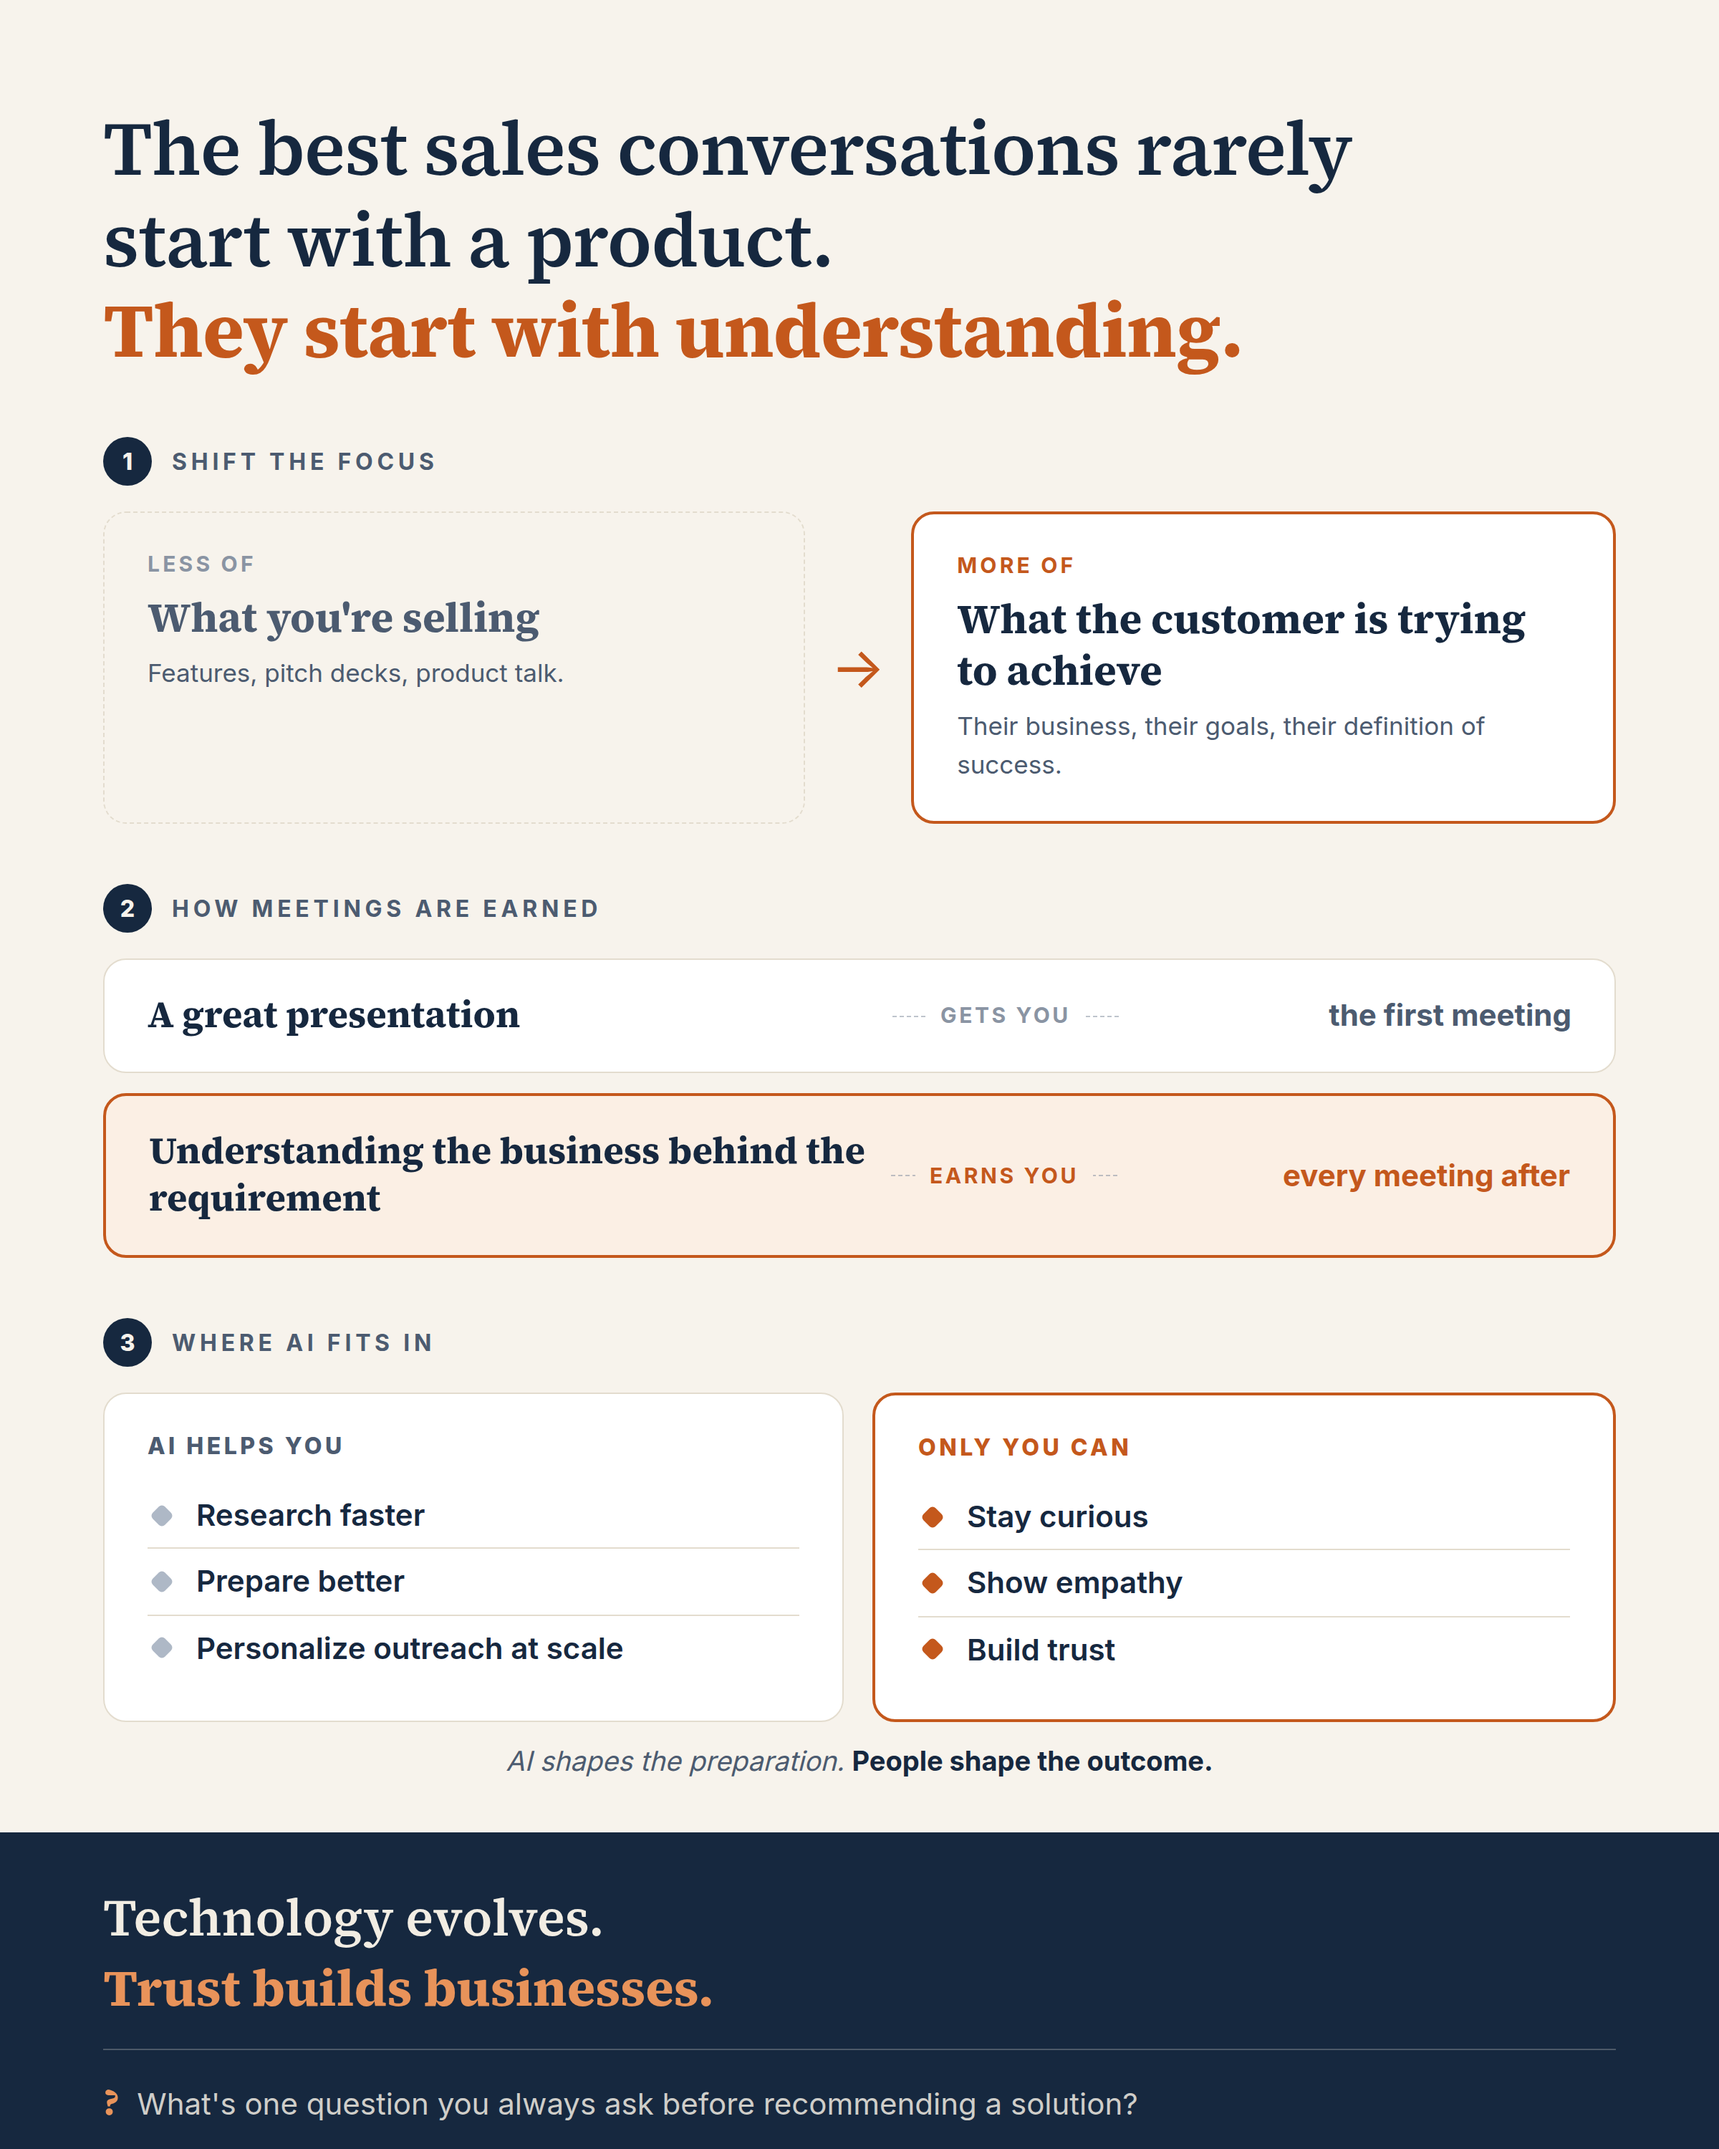
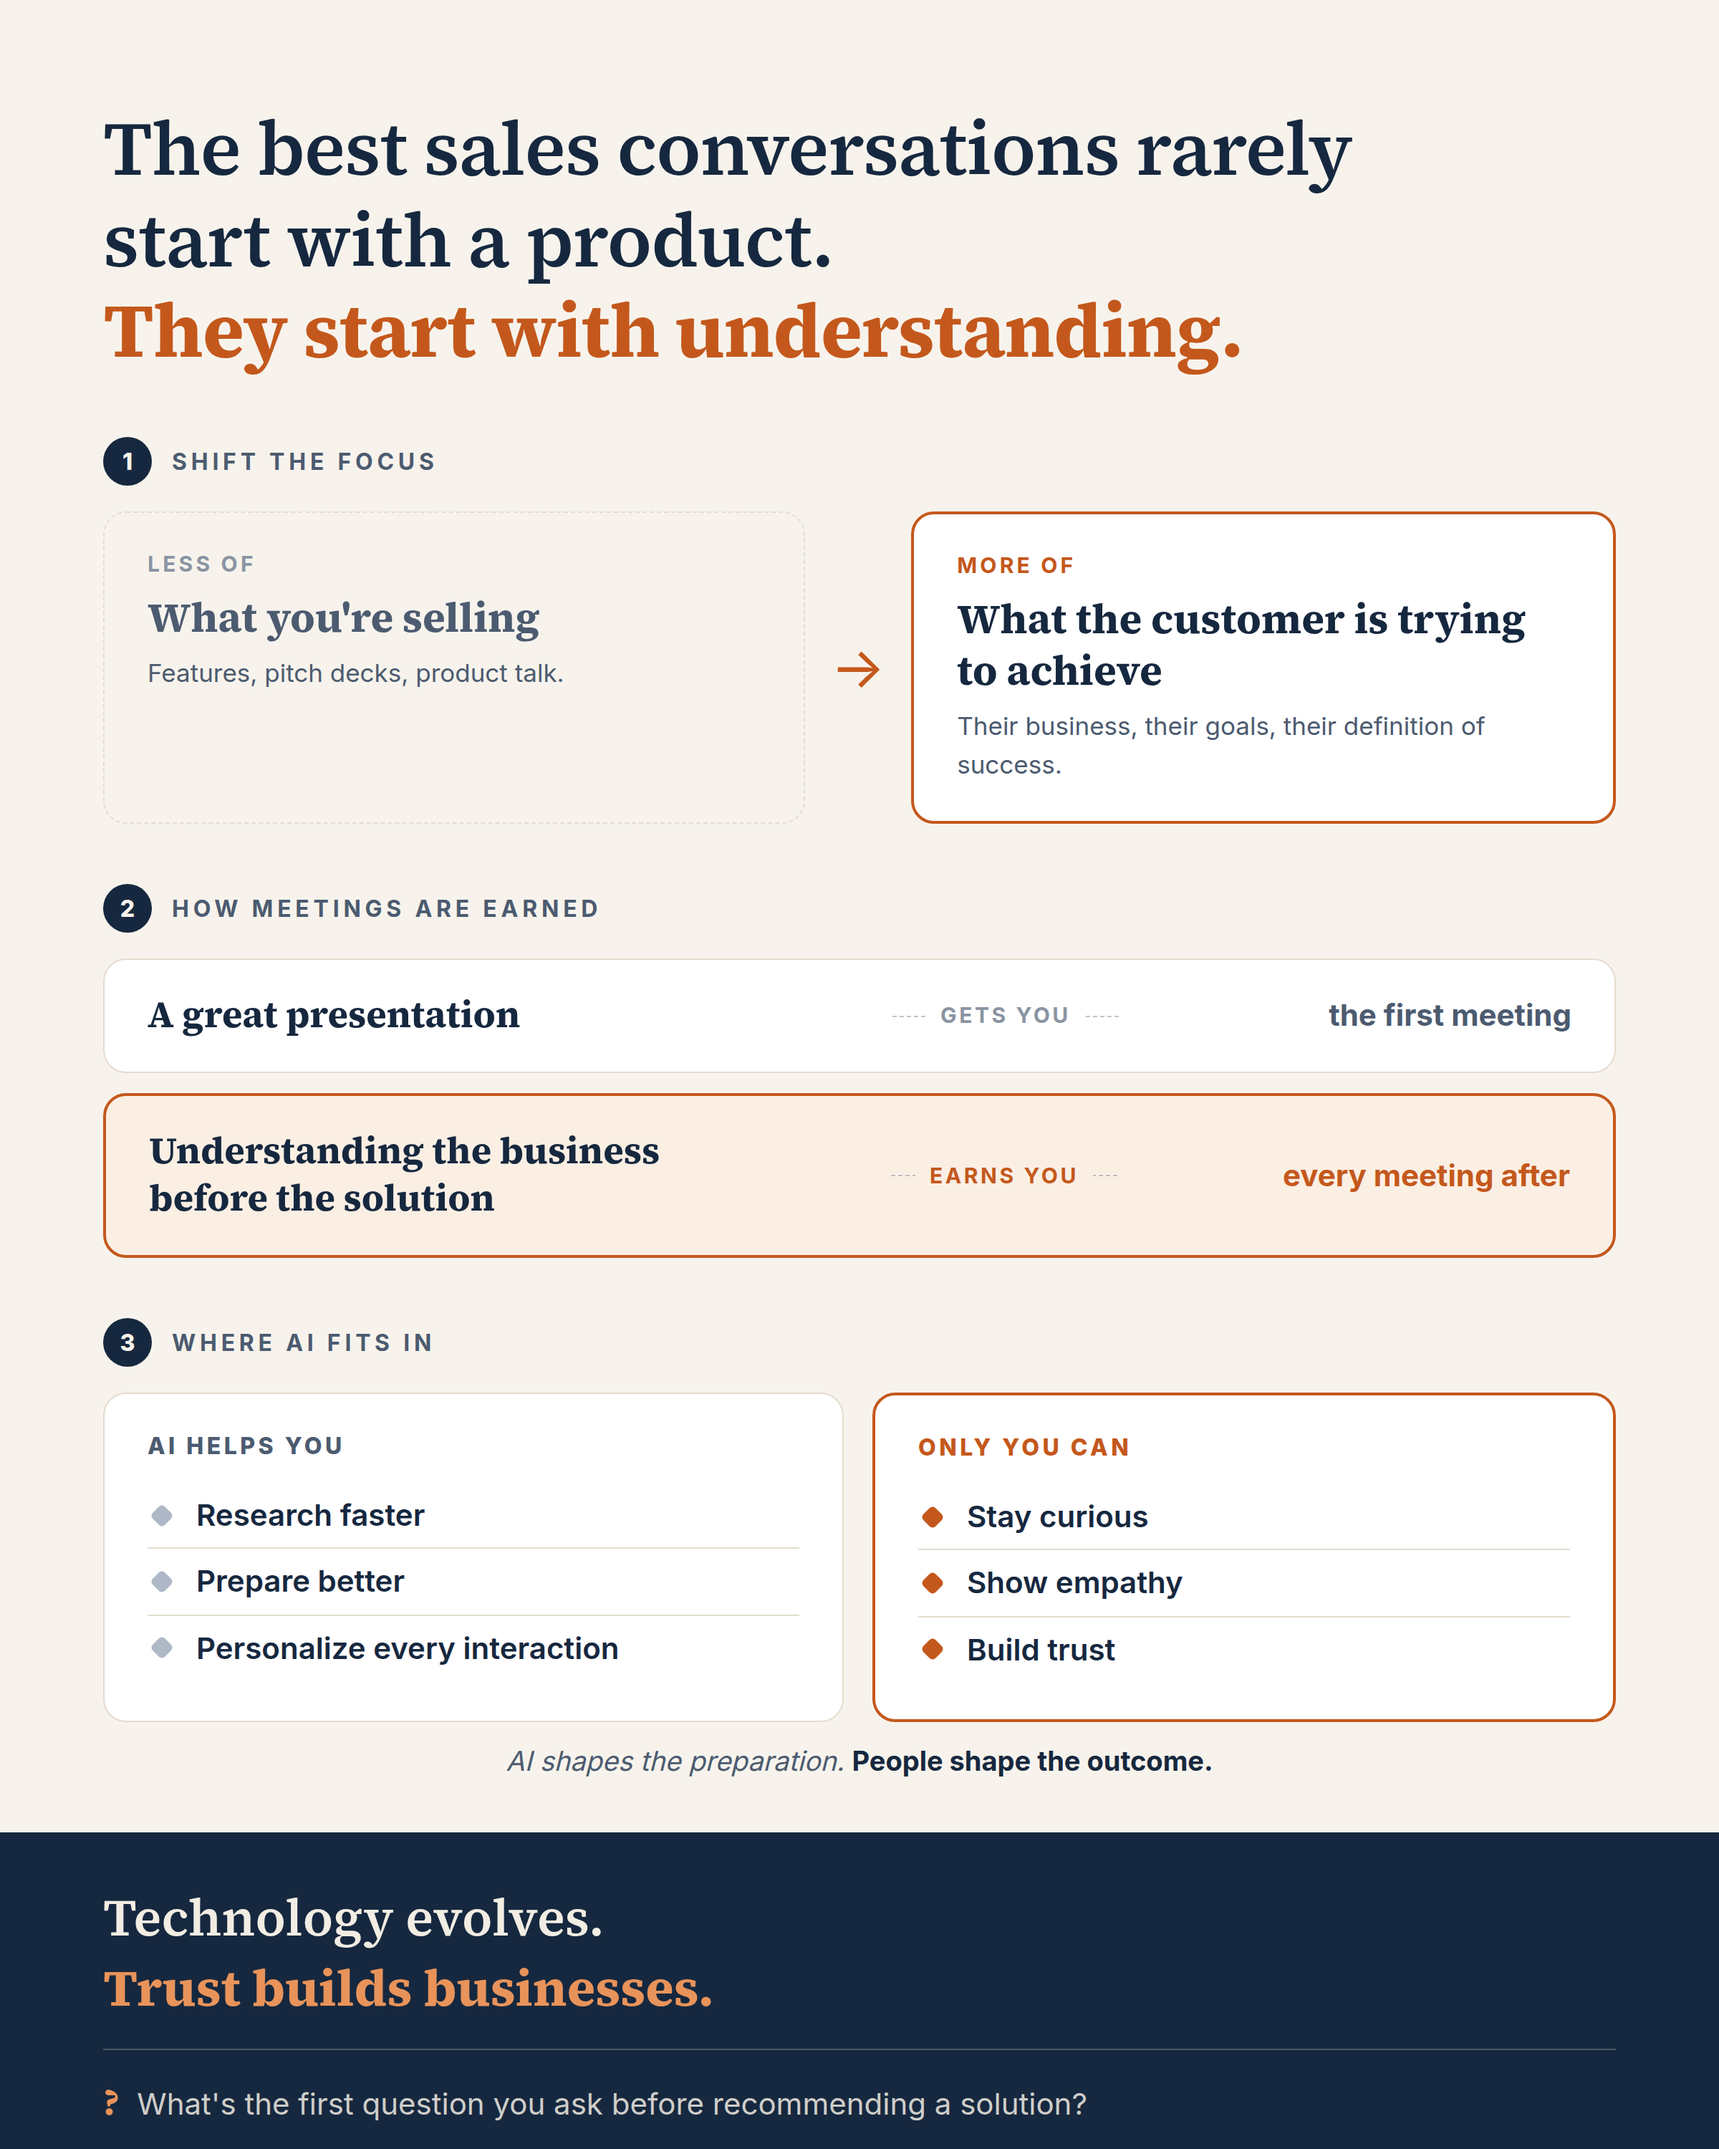
Refine graphic copy: ladder line, AI item, and closing question
'Understanding the business before the solution' mirrors the headline,
'Personalize every interaction' is outcome-focused, and the question
now asks for the first question to invite storytelling.

Claude-Session: https://claude.ai/code/session_01JjrDPGR9Tvsd3yWpYqyBo9

diff --git a/linkedin-graphics/sales-curiosity/index.html b/linkedin-graphics/sales-curiosity/index.html
@@ -184,7 +184,7 @@
         <div class="rung-result">the first meeting</div>
       </div>
       <div class="rung win">
-        <div class="rung-what">Understanding the business behind the requirement</div>
+        <div class="rung-what">Understanding the business<br>before the solution</div>
         <div class="rung-verb"><span>earns you</span></div>
         <div class="rung-result">every meeting after</div>
       </div>
@@ -199,7 +199,7 @@
         <ul>
           <li>Research faster</li>
           <li>Prepare better</li>
-          <li>Personalize outreach at scale</li>
+          <li>Personalize every interaction</li>
         </ul>
       </div>
       <div class="col human">
@@ -217,7 +217,7 @@
   <div class="closer">
     <div class="closer-line">Technology evolves.<br>
       <span class="keep">Trust builds businesses.</span></div>
-    <div class="closer-q"><span class="qmark">?</span> What's one question you always ask before recommending a solution?</div>
+    <div class="closer-q"><span class="qmark">?</span> What's the first question you ask before recommending a solution?</div>
   </div>
 
 </body>
